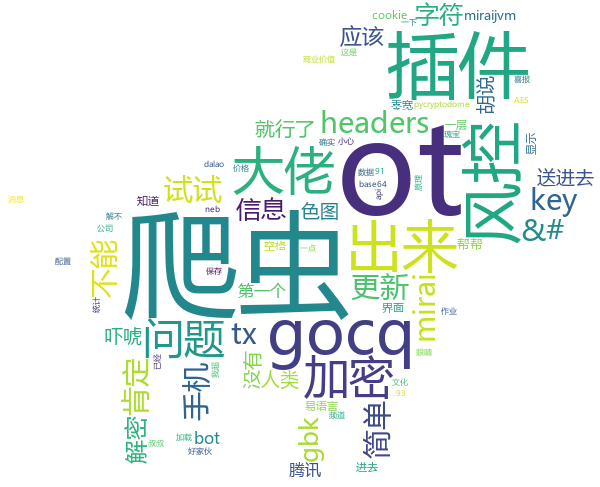
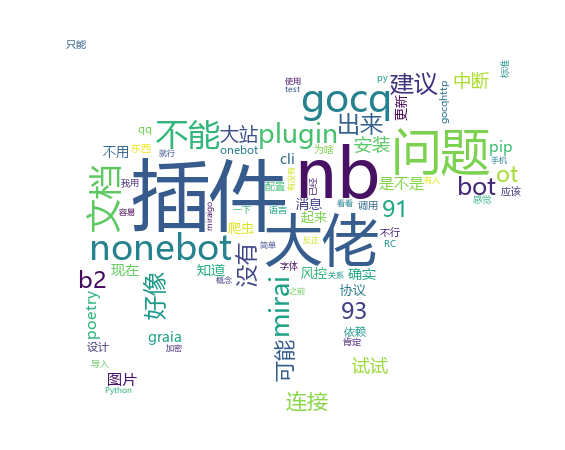
修复图片id为9找不到的问题，增加了部分自定义词

diff --git a/stephenRT/stephenrt/plugins/chatCloud/report.py b/stephenRT/stephenrt/plugins/chatCloud/report.py
@@ -183,7 +183,7 @@ class Report:
         :param timestamp:
         :return:
         """
-        cloud_id = random.randint(1,9)
+        cloud_id = random.randint(1,8)
         print("random:", cloud_id)
         info = self.wordReport(group_id, timestamp)
         wordDict = info[0]
